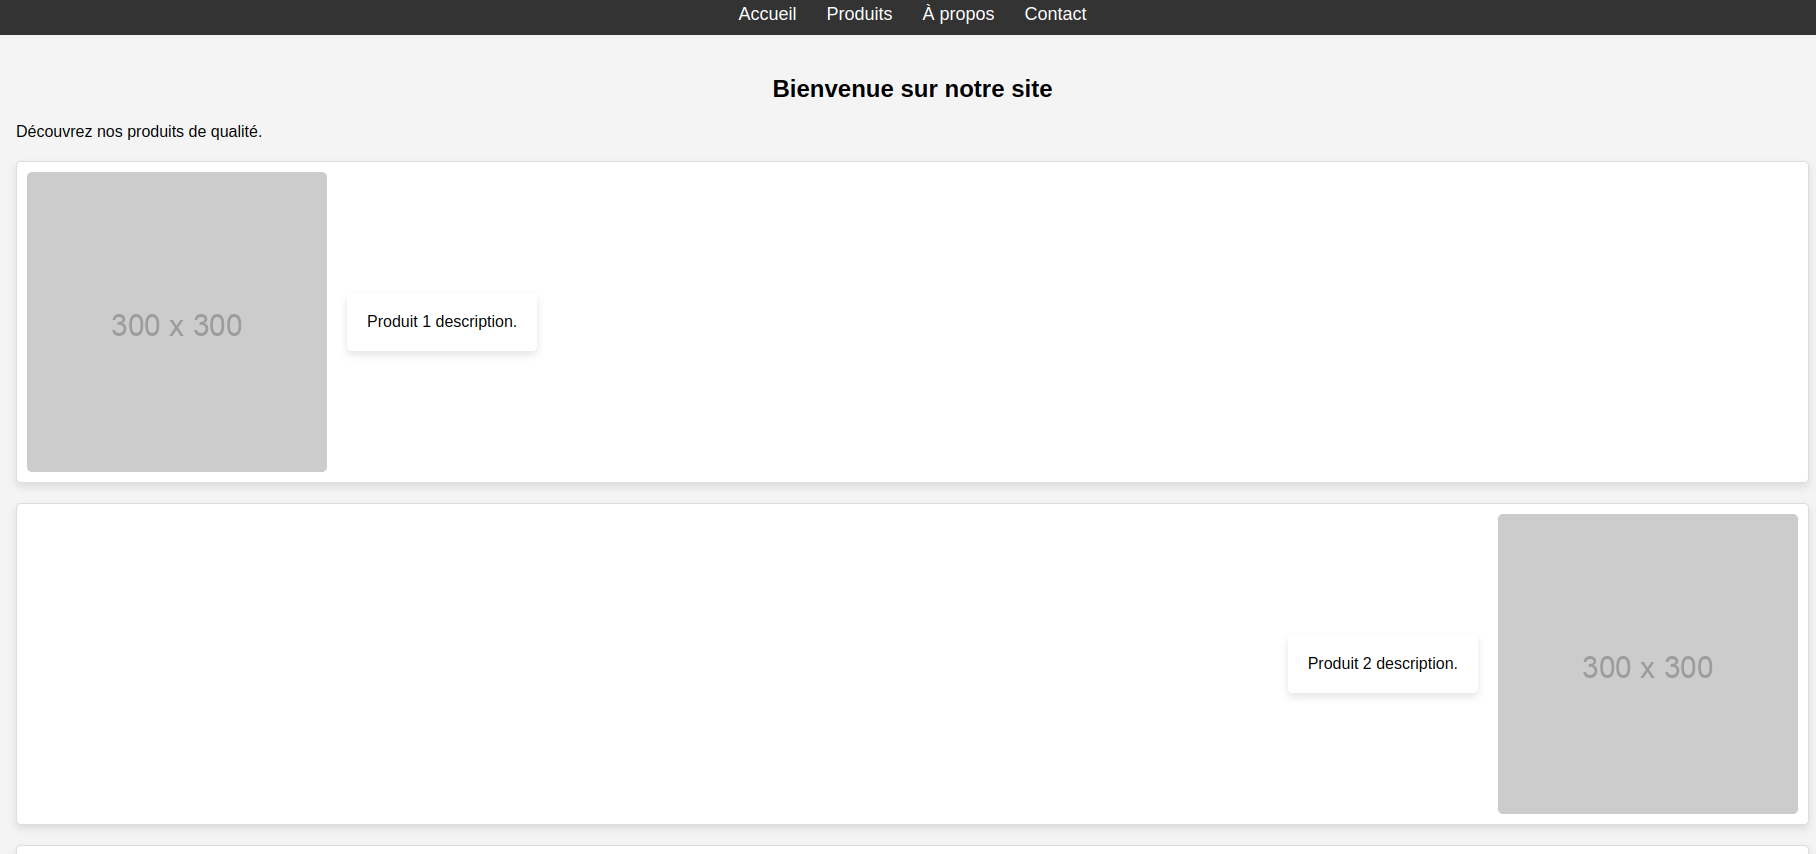
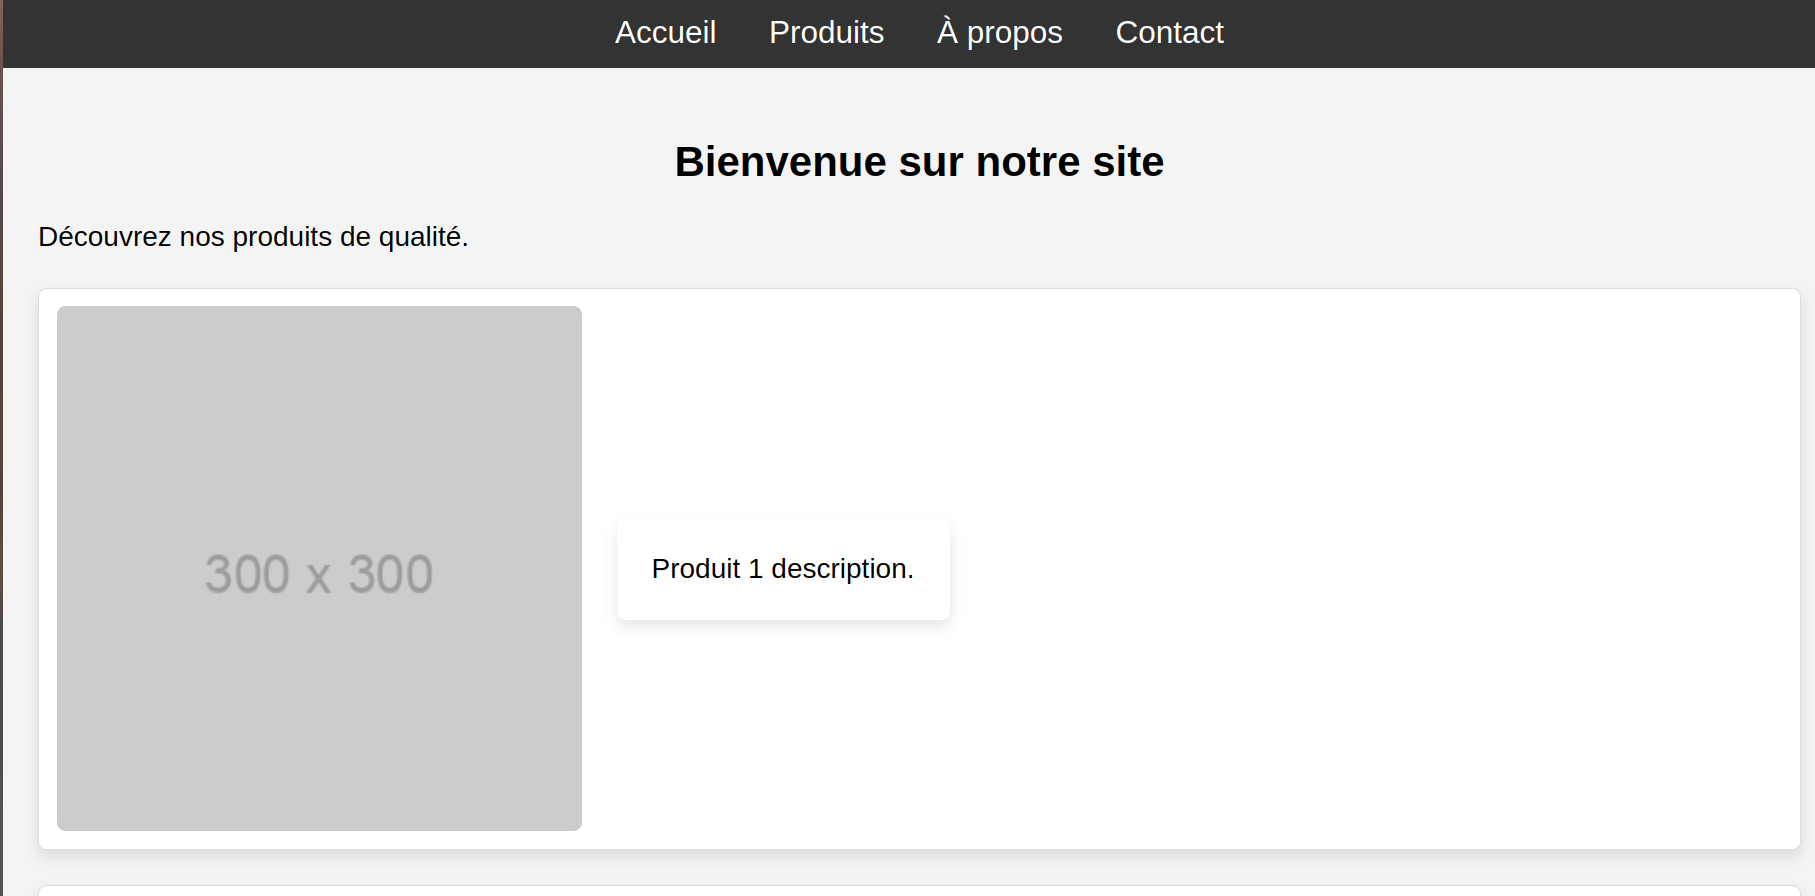
feat(): amélioration catalogue

Changed region(s): [[0.0, 0.1218, 1.0, 0.9742], [0.0, 0.0, 1.0, 0.1218], [0.3702, 0.1522, 0.6479, 0.2131]]

diff --git a/Catalogue.html b/Catalogue.html
@@ -19,27 +19,50 @@
     <div class="container">
         <h1>Catalogue</h1>
         <p>
-            Découvrez notre catalogue de sites. Tous les sites présents sur cette page sont faisable en peu de temps.
-            Nous proposons tout de même des solutions personnalisé pour des coût plus élevé. Nous proposons une large
+            Découvrez notre catalogue de sites. Tous les sites présents sur cette page sont faisables en peu de temps.
+            Nous proposons tout de même des solutions personnalisées pour des coûts plus élevés. Nous proposons une
+            large
             gamme de solutions adaptées à vos besoins.
         </p>
         <p>
-            Tout les exemple de site sont visible en format exemple en cliquant sur les box qui leur sont lié
+            Tous les exemples de sites sont visibles en format exemple en cliquant sur les box qui leur sont liés.
         </p>
 
-        <h2>Basique</h2>
-        <div class="Choix">
-            <a class="description" href="catalogue%20site/basique%201/index.html">
-                <img src="assets/ressources/site%20basique%201.png" alt="box base 1">
-                <div>
-                    <p>
-                        Site très basique (1 page en HTML CSS). Couleur gris et blanc. Parfait pour un premier site web à un prix raisonnable.
-                    </p>
+        <section class="catalogueProduct">
+            <h2 class="section-title">Basique</h2>
+            <div class="catalogue">
+                <div class="Choix">
+                    <a class="lien" href="catalogue%20site/basique%201/index.html">
+                        <img src="assets/ressources/site%20basique%201.png" alt="box base 1">
+                        <div class="description">
+                            <p>
+                                Site très basique (1 page en HTML CSS). Couleur gris et blanc. Parfait pour un premier
+                                site web à un prix raisonnable.
+                            </p>
+                            <p class="prix">
+                                <b>50 €</b>
+                            </p>
+                        </div>
+                    </a>
                 </div>
-            </a>
-        </div>
-    </div>
 
+                <div class="Choix">
+                    <a class="lien" href="catalogue%20site/basique%201/index.html">
+                        <img src="assets/ressources/site%20basique%201.png" alt="box base 1">
+                        <div class="description">
+                            <p>
+                                Site très basique (1 page en HTML CSS). Couleur gris et blanc. Parfait pour un premier
+                                site web à un prix raisonnable.
+                            </p>
+                            <p class="prix">
+                                <b>50 €</b>
+                            </p>
+                        </div>
+                    </a>
+                </div>
+            </div>
+        </section>
+    </div>
 </main>
 <footer id="footer">
     <noscript>Vous devez activer JS pour avoir le footer</noscript>

diff --git a/assets/css/Catalogue.css b/assets/css/Catalogue.css
@@ -1,3 +1,72 @@
+nav ul {
+    list-style-type: none;
+    padding: 0;
+    margin: 0;
+    display: flex;
+    justify-content: center;
+}
+
+nav ul li {
+    margin: 0 15px;
+}
+
+nav ul li a {
+    color: #fff;
+    text-decoration: none;
+    font-size: 18px;
+}
+
+main {
+    padding: 20px;
+}
+
+h1, h2 {
+    text-align: center;
+}
+
+section {
+    margin: 20px 0;
+}
+
+.product {
+    display: flex;
+    align-items: center;
+    margin: 20px 0;
+    flex-wrap: wrap;
+}
+
+.product img {
+    max-width: 45%;
+    height: auto;
+    border-radius: 5px;
+}
+
+.product p {
+    max-width: 45%;
+    padding: 20px;
+    background-color: #fff;
+    border-radius: 5px;
+    box-shadow: 0 4px 8px rgba(0, 0, 0, 0.1);
+}
+
+.catalogueProduct {
+    border: 2px solid #333;
+    border-radius: 10px;
+    padding: 20px;
+    position: relative;
+    margin: 20px 0;
+}
+
+.section-title {
+    position: absolute;
+    top: -20px;
+    left: 20px;
+    background-color: #333;
+    color: #fff;
+    padding: 5px 10px;
+    border-radius: 5px;
+}
+
 .Choix {
     border: 1px solid #ddd;
     border-radius: 10px;
@@ -7,7 +76,7 @@
     max-width: 300px;
     text-align: center;
     background-color: #fff;
-    margin: 20px;
+    margin: 10px;
 }
 
 .Choix:hover {
@@ -23,35 +92,45 @@
     transition: opacity 0.3s ease;
 }
 
-.description {
+.lien {
     text-decoration: none;
     color: #333;
     display: block;
 }
 
-.description div {
-    padding: 20px;
+.lien div {
+    padding: 10px;
     border-top: 1px solid #ddd;
     background-color: #f9f9f9;
     transition: background-color 0.3s ease;
 }
 
-.description p {
+.lien p {
     margin: 0;
     font-size: 16px;
     line-height: 1.5;
     color: #555;
 }
 
-.description:hover img {
+.lien:hover img {
     opacity: 0.9;
 }
 
-.description div:hover {
+.lien div:hover {
     background-color: #e9e9e9;
 }
 
 .Choix {
     padding: 10px;
     box-sizing: border-box;
+}
+
+.prix {
+    padding: 5px;
+}
+
+.catalogue {
+    display: flex;
+    flex-wrap: wrap;
+    justify-content: space-around;
 }
